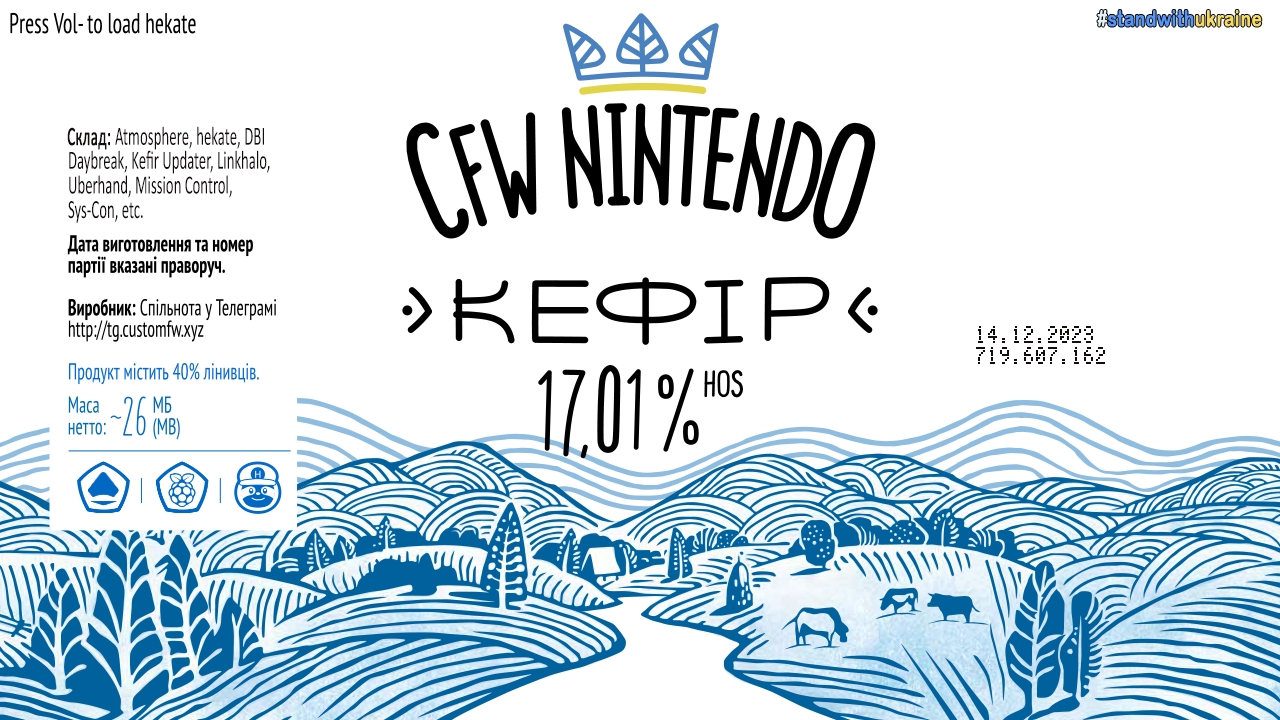
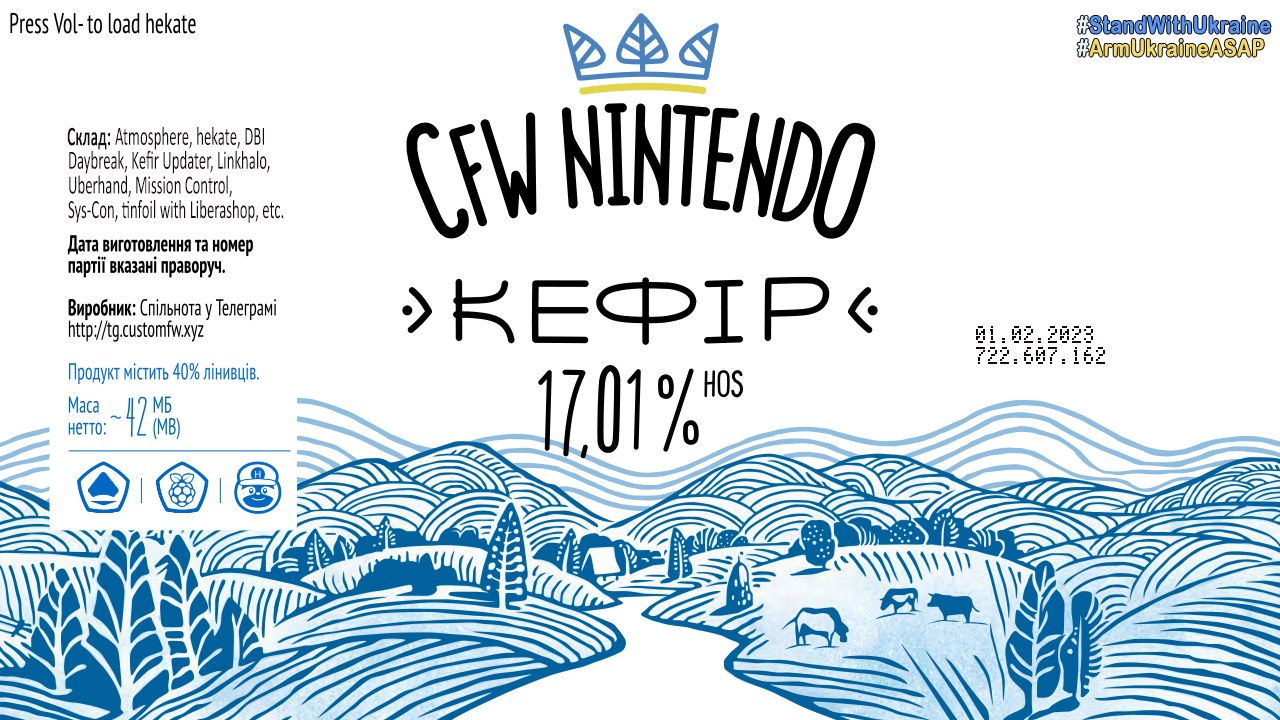
kefir722

diff --git a/kefir.html b/kefir.html
@@ -329,7 +329,7 @@
 <nav class="toc">
     <header><h4 class="nav__title"><i class="fa fa-file-text"></i> Разделы</h4></header>
 <ul class="toc__menu" id="markdown-toc">
-  <li><a href="#kefir-719" id="markdown-toc-kefir-719">KEFIR 719</a>    <ul>
+  <li><a href="#kefir-722" id="markdown-toc-kefir-722">KEFIR 722</a>    <ul>
       <li><a href="#что-такое-кефир" id="markdown-toc-что-такое-кефир">Что такое кефир</a></li>
       <li><a href="#инструкция-по-установкеобновлению-kefir" id="markdown-toc-инструкция-по-установкеобновлению-kefir">Инструкция по установке/обновлению kefir</a></li>
     </ul>
@@ -366,7 +366,7 @@
 
 <hr />
 
-<h2 id="kefir-719"><a href="https://codeberg.org/rashevskyv/kefir/releases" target="_blank">KEFIR 719</a></h2>
+<h2 id="kefir-722"><a href="https://codeberg.org/rashevskyv/kefir/releases" target="_blank">KEFIR 722</a></h2>
 
 <p class="text-center"><img src="/images/kefir.png" alt="kefir" width="70%" /></p>
 
@@ -620,7 +620,23 @@
 <h3 id="изменения-от-прошлой-версии">Изменения от прошлой версии</h3>
 
 <h4 id="ukr"><strong>UKR</strong>:</h4>
-<p><strong>Повна підтримка 17.0.1</strong></p>
+<p><strong>Повна підтримка 17.0.1</strong>
+<strong>722:</strong></p>
+<ul>
+  <li>[<strong>Оновлено</strong>] <a href="https://github.com/rashevskyv/Kefirosphere">Atmosphere 1.6.2</a> - перезібрано з останнім коммітом
+    <ul>
+      <li><a href="https://github.com/Atmosphere-NX/Atmosphere/releases"><strong>Детальніше про зміни в Atmosphere</strong></a></li>
+    </ul>
+  </li>
+  <li>[<strong>Виправлено</strong>] Прибрані патчі з семістоку. Тепер як і раніше неможливо в ньому встановити ігри через DBI</li>
+  <li>[Повернуто] tinfoil. Поки працює.</li>
+  <li>[<strong>Оновлено</strong>] <a href="https://github.com/efosamark/Uberhand-Overlay">Uberhand</a>
+    <ul>
+      <li>Додано меню Settings де можна загрузити loader без модифікацій від 4IFIR, що дає можливість використовувати Kefir зі звичайним sys-clk та OC-suite</li>
+    </ul>
+  </li>
+  <li>[<strong>Оновлено</strong>] <a href="https://github.com/rashevskyv/dbi/releases">DBI 658</a> - виправлення в Activity Log</li>
+</ul>
 
 <p><strong>719:</strong></p>
 <ul>
@@ -648,7 +664,23 @@
 <hr />
 
 <h4 id="rus"><strong>RUS</strong>:</h4>
-<p><strong>Полная поддержка 17.0.1</strong></p>
+<p><strong>Полная поддержка 17.0.1</strong>
+<strong>722:</strong></p>
+<ul>
+  <li>[<strong>Обновлено</strong>] <a href="https://github.com/rashevskyv/Kefirosphere">Atmosphere 1.6.2</a> - Пересобрано с последним коммитом
+    <ul>
+      <li><a href="https://github.com/Atmosphere-NX/Atmosphere/releases"><strong>Подробнее о изменениях в Atmosphere</strong></a></li>
+    </ul>
+  </li>
+  <li>[<strong>Исправлено</strong>] Убраны патчи из стоковой прошивки. Теперь, как и раньше, невозможно установить игры через DBI в ней</li>
+  <li>[Возвращено] tinfoil. Пока работает.</li>
+  <li>[<strong>Обновлено</strong>] <a href="https://github.com/efosamark/Uberhand-Overlay">Uberhand</a>
+    <ul>
+      <li>Добавлено меню <code class="language-plaintext highlighter-rouge">Settings</code>, где можно загрузить загрузчик без модификаций от 4IFIR, что позволяет использовать Kefir с обычным sys-clk и OC-suite</li>
+    </ul>
+  </li>
+  <li>[<strong>Обновлено</strong>] <a href="https://github.com/rashevskyv/dbi/releases">DBI 658</a> - Исправления в Журнале активности</li>
+</ul>
 
 <p><strong>719:</strong></p>
 <ul>
@@ -667,7 +699,7 @@
       <li><strong>DBI</strong> - изменение локализации и обновление программы</li>
       <li><strong>Translate Interface</strong> - дополнительные переводы инитерфейса на выбор</li>
       <li><strong>Semi-stock</strong> - загрузка в семисток из меню</li>
-      <li><strong>Reboot та Shutdown</strong> - перезагрузка и виключение консоли из меню</li>
+      <li><strong>Reboot и Shutdown</strong> - перезагрузка и виключение консоли из меню</li>
     </ul>
   </li>
   <li>[<strong>Обновлено</strong>] <a href="https://github.com/rashevskyv/dbi/releases">DBI 653</a> - исправление багов, улучшения Activity Log</li>
@@ -676,7 +708,23 @@
 <hr />
 
 <h4 id="eng"><strong>ENG</strong>:</h4>
-<p><strong>Full support 17.0.1</strong></p>
+<p><strong>Full Support for 17.0.1</strong>
+<strong>722:</strong></p>
+<ul>
+  <li>[<strong>Updated</strong>] <a href="https://github.com/rashevskyv/Kefirosphere">Atmosphere 1.6.2</a> - Rebuilt with the latest commit
+    <ul>
+      <li><a href="https://github.com/Atmosphere-NX/Atmosphere/releases"><strong>More on Atmosphere changes</strong></a></li>
+    </ul>
+  </li>
+  <li>[<strong>Fixed</strong>] Removed patches from the firmware. Now, as before, it is not possible to install games through DBI</li>
+  <li>[Restored] tinfoil. Works for now.</li>
+  <li>[<strong>Updated</strong>] <a href="https://github.com/efosamark/Uberhand-Overlay">Uberhand</a>
+    <ul>
+      <li>Added a <code class="language-plaintext highlighter-rouge">Settings</code> menu where you can load a loader without modifications from 4IFIR, allowing the use of Kefir with the regular sys-clk and OC-suite</li>
+    </ul>
+  </li>
+  <li>[<strong>Updated</strong>] <a href="https://github.com/rashevskyv/dbi/releases">DBI 658</a> - Fixes in Activity Log</li>
+</ul>
 
 <p><strong>719:</strong></p>
 <ul>
@@ -766,7 +814,7 @@
     
 </div>
 
-<div class="page__footer-copyright">&copy; 2023 nincfw team. Powered by <a href="http://jekyllrb.com" rel="nofollow">Jekyll</a> &amp; <a href="https://mademistakes.com/work/minimal-mistakes-jekyll-theme/" rel="nofollow">Minimal Mistakes</a>.</div>
+<div class="page__footer-copyright">&copy; 2024 nincfw team. Powered by <a href="http://jekyllrb.com" rel="nofollow">Jekyll</a> &amp; <a href="https://mademistakes.com/work/minimal-mistakes-jekyll-theme/" rel="nofollow">Minimal Mistakes</a>.</div>
 
       </footer>
     </div>

diff --git a/update-to-latest.html b/update-to-latest.html
@@ -390,7 +390,7 @@ location.href = 'update-fw';
     
 </div>
 
-<div class="page__footer-copyright">&copy; 2023 nincfw team. Powered by <a href="http://jekyllrb.com" rel="nofollow">Jekyll</a> &amp; <a href="https://mademistakes.com/work/minimal-mistakes-jekyll-theme/" rel="nofollow">Minimal Mistakes</a>.</div>
+<div class="page__footer-copyright">&copy; 2024 nincfw team. Powered by <a href="http://jekyllrb.com" rel="nofollow">Jekyll</a> &amp; <a href="https://mademistakes.com/work/minimal-mistakes-jekyll-theme/" rel="nofollow">Minimal Mistakes</a>.</div>
 
       </footer>
     </div>

diff --git a/launch-cfw.html b/launch-cfw.html
@@ -412,7 +412,7 @@ location.href = 'cfw';
     
 </div>
 
-<div class="page__footer-copyright">&copy; 2023 nincfw team. Powered by <a href="http://jekyllrb.com" rel="nofollow">Jekyll</a> &amp; <a href="https://mademistakes.com/work/minimal-mistakes-jekyll-theme/" rel="nofollow">Minimal Mistakes</a>.</div>
+<div class="page__footer-copyright">&copy; 2024 nincfw team. Powered by <a href="http://jekyllrb.com" rel="nofollow">Jekyll</a> &amp; <a href="https://mademistakes.com/work/minimal-mistakes-jekyll-theme/" rel="nofollow">Minimal Mistakes</a>.</div>
 
       </footer>
     </div>

diff --git a/launch-hbl.html b/launch-hbl.html
@@ -412,7 +412,7 @@ location.href = 'hbl';
     
 </div>
 
-<div class="page__footer-copyright">&copy; 2023 nincfw team. Powered by <a href="http://jekyllrb.com" rel="nofollow">Jekyll</a> &amp; <a href="https://mademistakes.com/work/minimal-mistakes-jekyll-theme/" rel="nofollow">Minimal Mistakes</a>.</div>
+<div class="page__footer-copyright">&copy; 2024 nincfw team. Powered by <a href="http://jekyllrb.com" rel="nofollow">Jekyll</a> &amp; <a href="https://mademistakes.com/work/minimal-mistakes-jekyll-theme/" rel="nofollow">Minimal Mistakes</a>.</div>
 
       </footer>
     </div>

diff --git a/401.html b/401.html
@@ -479,7 +479,7 @@
     
 </div>
 
-<div class="page__footer-copyright">&copy; 2023 nincfw team. Powered by <a href="http://jekyllrb.com" rel="nofollow">Jekyll</a> &amp; <a href="https://mademistakes.com/work/minimal-mistakes-jekyll-theme/" rel="nofollow">Minimal Mistakes</a>.</div>
+<div class="page__footer-copyright">&copy; 2024 nincfw team. Powered by <a href="http://jekyllrb.com" rel="nofollow">Jekyll</a> &amp; <a href="https://mademistakes.com/work/minimal-mistakes-jekyll-theme/" rel="nofollow">Minimal Mistakes</a>.</div>
 
       </footer>
     </div>

diff --git a/addons.html b/addons.html
@@ -645,7 +645,7 @@
     
 </div>
 
-<div class="page__footer-copyright">&copy; 2023 nincfw team. Powered by <a href="http://jekyllrb.com" rel="nofollow">Jekyll</a> &amp; <a href="https://mademistakes.com/work/minimal-mistakes-jekyll-theme/" rel="nofollow">Minimal Mistakes</a>.</div>
+<div class="page__footer-copyright">&copy; 2024 nincfw team. Powered by <a href="http://jekyllrb.com" rel="nofollow">Jekyll</a> &amp; <a href="https://mademistakes.com/work/minimal-mistakes-jekyll-theme/" rel="nofollow">Minimal Mistakes</a>.</div>
 
       </footer>
     </div>

diff --git a/autorcm.html b/autorcm.html
@@ -511,7 +511,7 @@
     
 </div>
 
-<div class="page__footer-copyright">&copy; 2023 nincfw team. Powered by <a href="http://jekyllrb.com" rel="nofollow">Jekyll</a> &amp; <a href="https://mademistakes.com/work/minimal-mistakes-jekyll-theme/" rel="nofollow">Minimal Mistakes</a>.</div>
+<div class="page__footer-copyright">&copy; 2024 nincfw team. Powered by <a href="http://jekyllrb.com" rel="nofollow">Jekyll</a> &amp; <a href="https://mademistakes.com/work/minimal-mistakes-jekyll-theme/" rel="nofollow">Minimal Mistakes</a>.</div>
 
       </footer>
     </div>

diff --git a/backup-nand.html b/backup-nand.html
@@ -793,7 +793,7 @@
     
 </div>
 
-<div class="page__footer-copyright">&copy; 2023 nincfw team. Powered by <a href="http://jekyllrb.com" rel="nofollow">Jekyll</a> &amp; <a href="https://mademistakes.com/work/minimal-mistakes-jekyll-theme/" rel="nofollow">Minimal Mistakes</a>.</div>
+<div class="page__footer-copyright">&copy; 2024 nincfw team. Powered by <a href="http://jekyllrb.com" rel="nofollow">Jekyll</a> &amp; <a href="https://mademistakes.com/work/minimal-mistakes-jekyll-theme/" rel="nofollow">Minimal Mistakes</a>.</div>
 
       </footer>
     </div>

diff --git a/backup-saves.html b/backup-saves.html
@@ -423,7 +423,7 @@
     
 </div>
 
-<div class="page__footer-copyright">&copy; 2023 nincfw team. Powered by <a href="http://jekyllrb.com" rel="nofollow">Jekyll</a> &amp; <a href="https://mademistakes.com/work/minimal-mistakes-jekyll-theme/" rel="nofollow">Minimal Mistakes</a>.</div>
+<div class="page__footer-copyright">&copy; 2024 nincfw team. Powered by <a href="http://jekyllrb.com" rel="nofollow">Jekyll</a> &amp; <a href="https://mademistakes.com/work/minimal-mistakes-jekyll-theme/" rel="nofollow">Minimal Mistakes</a>.</div>
 
       </footer>
     </div>

diff --git a/block-update.html b/block-update.html
@@ -549,7 +549,7 @@
     
 </div>
 
-<div class="page__footer-copyright">&copy; 2023 nincfw team. Powered by <a href="http://jekyllrb.com" rel="nofollow">Jekyll</a> &amp; <a href="https://mademistakes.com/work/minimal-mistakes-jekyll-theme/" rel="nofollow">Minimal Mistakes</a>.</div>
+<div class="page__footer-copyright">&copy; 2024 nincfw team. Powered by <a href="http://jekyllrb.com" rel="nofollow">Jekyll</a> &amp; <a href="https://mademistakes.com/work/minimal-mistakes-jekyll-theme/" rel="nofollow">Minimal Mistakes</a>.</div>
 
       </footer>
     </div>

diff --git a/caffeine.html b/caffeine.html
@@ -511,7 +511,7 @@
     
 </div>
 
-<div class="page__footer-copyright">&copy; 2023 nincfw team. Powered by <a href="http://jekyllrb.com" rel="nofollow">Jekyll</a> &amp; <a href="https://mademistakes.com/work/minimal-mistakes-jekyll-theme/" rel="nofollow">Minimal Mistakes</a>.</div>
+<div class="page__footer-copyright">&copy; 2024 nincfw team. Powered by <a href="http://jekyllrb.com" rel="nofollow">Jekyll</a> &amp; <a href="https://mademistakes.com/work/minimal-mistakes-jekyll-theme/" rel="nofollow">Minimal Mistakes</a>.</div>
 
       </footer>
     </div>

diff --git a/cfw.html b/cfw.html
@@ -643,7 +643,7 @@
     
 </div>
 
-<div class="page__footer-copyright">&copy; 2023 nincfw team. Powered by <a href="http://jekyllrb.com" rel="nofollow">Jekyll</a> &amp; <a href="https://mademistakes.com/work/minimal-mistakes-jekyll-theme/" rel="nofollow">Minimal Mistakes</a>.</div>
+<div class="page__footer-copyright">&copy; 2024 nincfw team. Powered by <a href="http://jekyllrb.com" rel="nofollow">Jekyll</a> &amp; <a href="https://mademistakes.com/work/minimal-mistakes-jekyll-theme/" rel="nofollow">Minimal Mistakes</a>.</div>
 
       </footer>
     </div>
